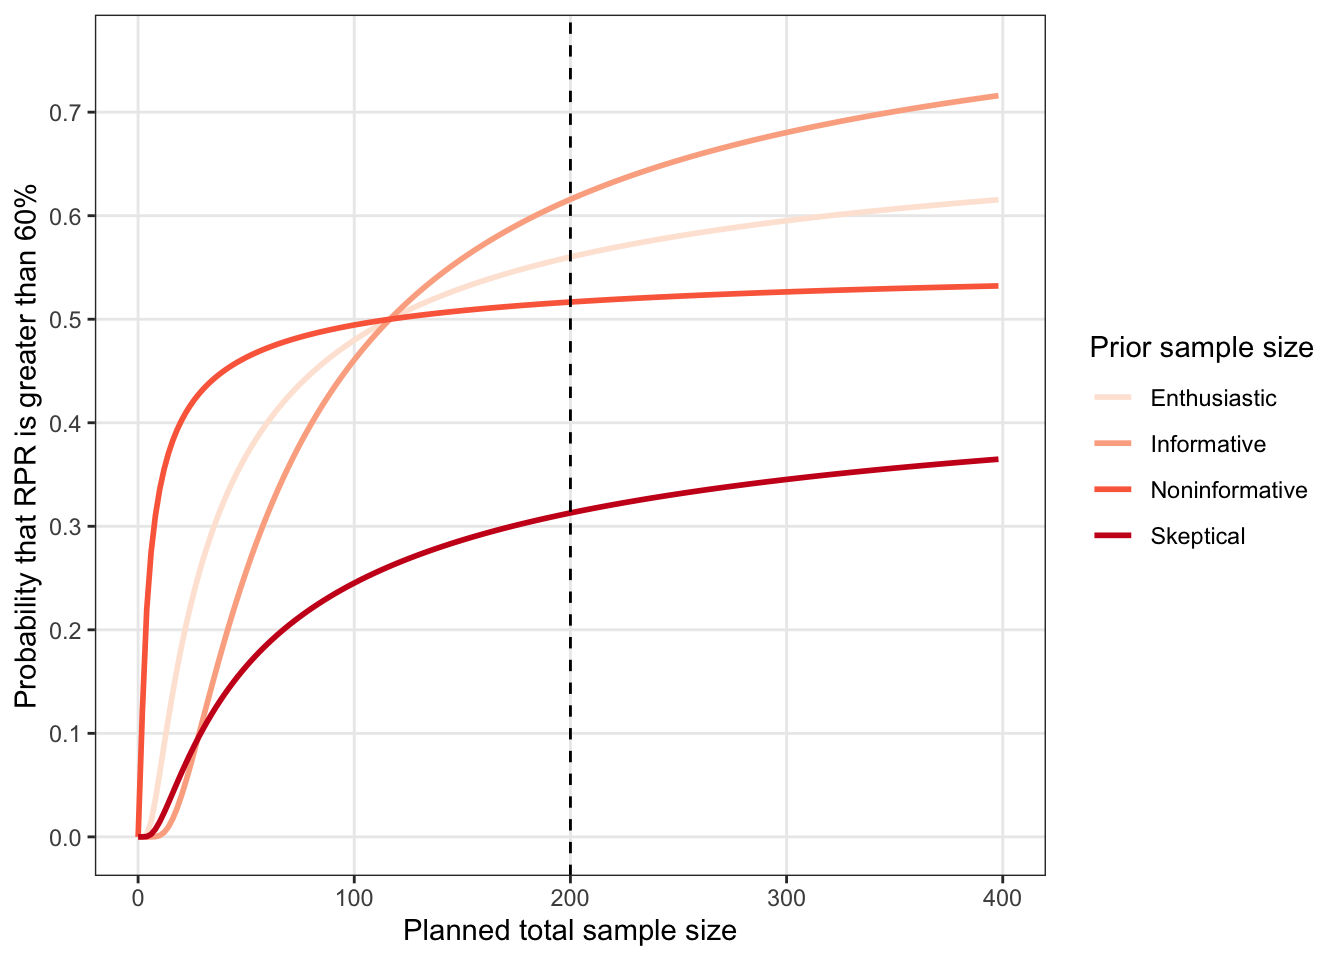
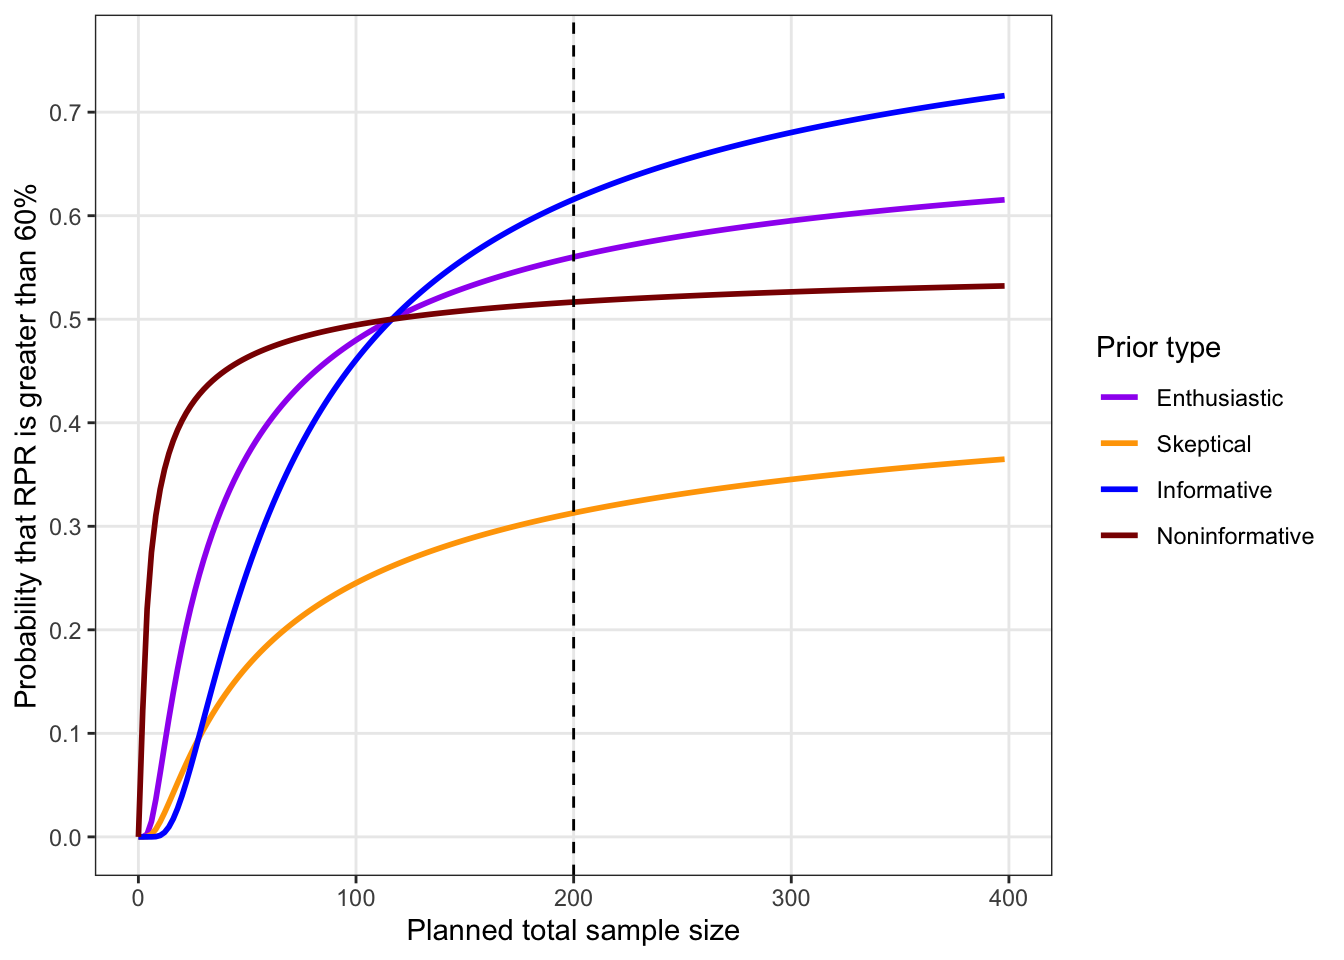
Changes

diff --git a/docs/two-arm-non-inferiority-setting.html b/docs/two-arm-non-inferiority-setting.html
@@ -436,7 +436,9 @@ f(y)&amp;=\sqrt{\frac{m}{n}}\phi\left(\sqrt{\frac{m}{n}}\left[-z_{1-\alpha}-\sqr
 <span id="cb9-43"><a href="two-arm-non-inferiority-setting.html#cb9-43" aria-hidden="true" tabindex="-1"></a></span>
 <span id="cb9-44"><a href="two-arm-non-inferiority-setting.html#cb9-44" aria-hidden="true" tabindex="-1"></a>data_output2 <span class="ot">&lt;-</span> data_output <span class="sc">%&gt;%</span> <span class="fu">select</span>(type, <span class="at">x=</span>AP) <span class="sc">%&gt;%</span> <span class="fu">mutate</span>(<span class="at">y=</span><span class="dv">0</span>)</span>
 <span id="cb9-45"><a href="two-arm-non-inferiority-setting.html#cb9-45" aria-hidden="true" tabindex="-1"></a></span>
-<span id="cb9-46"><a href="two-arm-non-inferiority-setting.html#cb9-46" aria-hidden="true" tabindex="-1"></a><span class="fu">ggplot</span>(data_power, <span class="fu">aes</span>(x, y, <span class="at">colour=</span>type))<span class="sc">+</span><span class="fu">geom_line</span>(<span class="at">linewidth=</span><span class="dv">1</span>)<span class="sc">+</span><span class="fu">geom_point</span>(<span class="at">data=</span>data_output2, <span class="fu">aes</span>(<span class="at">x=</span>x, <span class="at">y=</span>y, <span class="at">colour=</span>type))<span class="sc">+</span><span class="fu">scale_colour_manual</span>(<span class="st">&quot;Prior type&quot;</span>, <span class="at">values=</span><span class="fu">c</span>(<span class="st">&quot;purple&quot;</span>, <span class="st">&quot;orange&quot;</span>, <span class="st">&quot;blue&quot;</span>, <span class="st">&quot;darkred&quot;</span>))<span class="sc">+</span><span class="fu">theme_bw</span>()<span class="sc">+</span><span class="fu">theme</span>(<span class="at">panel.grid =</span> <span class="fu">element_blank</span>())<span class="sc">+</span><span class="fu">ylab</span>(<span class="st">&quot;Density&quot;</span>)<span class="sc">+</span><span class="fu">xlab</span>(<span class="st">&quot;RPR&quot;</span>)<span class="sc">+</span><span class="fu">ylim</span>(<span class="fu">c</span>(<span class="dv">0</span>,<span class="dv">2</span>))<span class="sc">+</span><span class="fu">labs</span>(<span class="at">caption=</span><span class="st">&quot;Dots indicate the AP.&quot;</span>)</span></code></pre></div>
+<span id="cb9-46"><a href="two-arm-non-inferiority-setting.html#cb9-46" aria-hidden="true" tabindex="-1"></a>data_power<span class="sc">$</span>type <span class="ot">&lt;-</span> <span class="fu">factor</span>(data_power<span class="sc">$</span>type, <span class="at">levels=</span><span class="fu">c</span>(<span class="st">&quot;Enthusiastic&quot;</span>, <span class="st">&quot;Skeptical&quot;</span>, <span class="st">&quot;Informative&quot;</span>, <span class="st">&quot;Noninformative&quot;</span>))</span>
+<span id="cb9-47"><a href="two-arm-non-inferiority-setting.html#cb9-47" aria-hidden="true" tabindex="-1"></a></span>
+<span id="cb9-48"><a href="two-arm-non-inferiority-setting.html#cb9-48" aria-hidden="true" tabindex="-1"></a><span class="fu">ggplot</span>(data_power, <span class="fu">aes</span>(x, y, <span class="at">colour=</span>type))<span class="sc">+</span><span class="fu">geom_line</span>(<span class="at">linewidth=</span><span class="dv">1</span>)<span class="sc">+</span><span class="fu">geom_point</span>(<span class="at">data=</span>data_output2, <span class="fu">aes</span>(<span class="at">x=</span>x, <span class="at">y=</span>y, <span class="at">colour=</span>type))<span class="sc">+</span><span class="fu">scale_colour_manual</span>(<span class="st">&quot;Prior type&quot;</span>, <span class="at">values=</span><span class="fu">c</span>(<span class="st">&quot;purple&quot;</span>, <span class="st">&quot;orange&quot;</span>, <span class="st">&quot;blue&quot;</span>, <span class="st">&quot;darkred&quot;</span>))<span class="sc">+</span><span class="fu">theme_bw</span>()<span class="sc">+</span><span class="fu">theme</span>(<span class="at">panel.grid =</span> <span class="fu">element_blank</span>())<span class="sc">+</span><span class="fu">ylab</span>(<span class="st">&quot;Density&quot;</span>)<span class="sc">+</span><span class="fu">xlab</span>(<span class="st">&quot;RPR&quot;</span>)<span class="sc">+</span><span class="fu">ylim</span>(<span class="fu">c</span>(<span class="dv">0</span>,<span class="dv">2</span>))<span class="sc">+</span><span class="fu">labs</span>(<span class="at">caption=</span><span class="st">&quot;Dots indicate the AP.&quot;</span>)</span></code></pre></div>
 </details>
 <p><img src="_main_files/figure-html/unnamed-chunk-6-1.png" width="672" /></p>
 <hr />
@@ -499,7 +501,9 @@ P(RPR\leq y)=1-\Phi&amp;\left(\frac{\sigma_{treat}}{\sigma_{prior}}\left[-z_{1-\
 <span id="cb10-34"><a href="two-arm-non-inferiority-setting.html#cb10-34" aria-hidden="true" tabindex="-1"></a></span>
 <span id="cb10-35"><a href="two-arm-non-inferiority-setting.html#cb10-35" aria-hidden="true" tabindex="-1"></a>data_rpr <span class="ot">&lt;-</span> <span class="fu">rbind</span>(data_rpr, data_rpr_skep)</span>
 <span id="cb10-36"><a href="two-arm-non-inferiority-setting.html#cb10-36" aria-hidden="true" tabindex="-1"></a></span>
-<span id="cb10-37"><a href="two-arm-non-inferiority-setting.html#cb10-37" aria-hidden="true" tabindex="-1"></a><span class="fu">ggplot</span>(data_rpr, <span class="fu">aes</span>(<span class="at">x=</span>gamma, <span class="at">y=</span>p_rpr, <span class="at">colour=</span><span class="fu">factor</span>(type)))<span class="sc">+</span><span class="fu">geom_line</span>(<span class="at">linewidth=</span><span class="dv">1</span>)<span class="sc">+</span><span class="fu">theme_bw</span>()<span class="sc">+</span><span class="fu">theme</span>(<span class="at">panel.grid.minor =</span> <span class="fu">element_blank</span>())<span class="sc">+</span><span class="fu">scale_color_brewer</span>(<span class="st">&quot;&quot;</span>, <span class="at">palette=</span><span class="st">&quot;Reds&quot;</span>)<span class="sc">+</span><span class="fu">xlab</span>(<span class="st">&quot;Threshold gamma&quot;</span>)<span class="sc">+</span><span class="fu">ylab</span>(<span class="st">&quot;Probability that RPR is greater than threshold gamma&quot;</span>)<span class="sc">+</span><span class="fu">scale_y_continuous</span>(<span class="at">breaks=</span><span class="fu">seq</span>(<span class="dv">0</span>,<span class="dv">1</span>,<span class="fl">0.1</span>))<span class="sc">+</span><span class="fu">scale_x_continuous</span>(<span class="at">breaks=</span><span class="fu">seq</span>(<span class="dv">0</span>,<span class="dv">1</span>,<span class="fl">0.2</span>))<span class="sc">+</span><span class="fu">labs</span>(<span class="at">caption=</span><span class="fu">str_glue</span>(<span class="st">&quot;Calculated based on a planned total sample size of &quot;</span>, <span class="fu">round</span>(n_0_range<span class="sc">+</span>a<span class="sc">*</span>n_0_range,<span class="dv">0</span>), <span class="st">&quot;.&quot;</span>))</span></code></pre></div>
+<span id="cb10-37"><a href="two-arm-non-inferiority-setting.html#cb10-37" aria-hidden="true" tabindex="-1"></a>data_rpr<span class="sc">$</span>type <span class="ot">&lt;-</span> <span class="fu">factor</span>(data_rpr<span class="sc">$</span>type, <span class="at">levels=</span><span class="fu">c</span>(<span class="st">&quot;Enthusiastic&quot;</span>, <span class="st">&quot;Skeptical&quot;</span>, <span class="st">&quot;Informative&quot;</span>, <span class="st">&quot;Noninformative&quot;</span>))</span>
+<span id="cb10-38"><a href="two-arm-non-inferiority-setting.html#cb10-38" aria-hidden="true" tabindex="-1"></a></span>
+<span id="cb10-39"><a href="two-arm-non-inferiority-setting.html#cb10-39" aria-hidden="true" tabindex="-1"></a><span class="fu">ggplot</span>(data_rpr, <span class="fu">aes</span>(<span class="at">x=</span>gamma, <span class="at">y=</span>p_rpr, <span class="at">colour=</span>type))<span class="sc">+</span><span class="fu">geom_line</span>(<span class="at">linewidth=</span><span class="dv">1</span>)<span class="sc">+</span><span class="fu">theme_bw</span>()<span class="sc">+</span><span class="fu">theme</span>(<span class="at">panel.grid.minor =</span> <span class="fu">element_blank</span>())<span class="sc">+</span><span class="fu">scale_colour_manual</span>(<span class="st">&quot;Prior type&quot;</span>, <span class="at">values=</span><span class="fu">c</span>(<span class="st">&quot;purple&quot;</span>, <span class="st">&quot;orange&quot;</span>, <span class="st">&quot;blue&quot;</span>, <span class="st">&quot;darkred&quot;</span>))<span class="sc">+</span><span class="fu">xlab</span>(<span class="st">&quot;Threshold gamma&quot;</span>)<span class="sc">+</span><span class="fu">ylab</span>(<span class="st">&quot;Probability that RPR is greater than threshold gamma&quot;</span>)<span class="sc">+</span><span class="fu">scale_y_continuous</span>(<span class="at">breaks=</span><span class="fu">seq</span>(<span class="dv">0</span>,<span class="dv">1</span>,<span class="fl">0.1</span>))<span class="sc">+</span><span class="fu">scale_x_continuous</span>(<span class="at">breaks=</span><span class="fu">seq</span>(<span class="dv">0</span>,<span class="dv">1</span>,<span class="fl">0.2</span>))<span class="sc">+</span><span class="fu">labs</span>(<span class="at">caption=</span><span class="fu">str_glue</span>(<span class="st">&quot;Calculated based on a planned total sample size of &quot;</span>, <span class="fu">round</span>(n_0_range<span class="sc">+</span>a<span class="sc">*</span>n_0_range,<span class="dv">0</span>), <span class="st">&quot;.&quot;</span>))</span></code></pre></div>
 </details>
 <p><img src="_main_files/figure-html/unnamed-chunk-7-1.png" width="672" /></p>
 <p>For a specific threshold, say <span class="math inline">\(\gamma=0.6\)</span>, and varying ‘prior sample sizes’ <span class="math inline">\(m\)</span> we obtain</p>
@@ -543,7 +547,9 @@ P(RPR\leq y)=1-\Phi&amp;\left(\frac{\sigma_{treat}}{\sigma_{prior}}\left[-z_{1-\
 <span id="cb11-37"><a href="two-arm-non-inferiority-setting.html#cb11-37" aria-hidden="true" tabindex="-1"></a></span>
 <span id="cb11-38"><a href="two-arm-non-inferiority-setting.html#cb11-38" aria-hidden="true" tabindex="-1"></a>data_rpr <span class="ot">&lt;-</span> <span class="fu">rbind</span>(data_rpr, data_rpr_skep)</span>
 <span id="cb11-39"><a href="two-arm-non-inferiority-setting.html#cb11-39" aria-hidden="true" tabindex="-1"></a></span>
-<span id="cb11-40"><a href="two-arm-non-inferiority-setting.html#cb11-40" aria-hidden="true" tabindex="-1"></a><span class="fu">ggplot</span>(data_rpr, <span class="fu">aes</span>(<span class="at">x=</span>n_1_range<span class="sc">+</span>n_0_range, <span class="at">y=</span>p_rpr, <span class="at">colour=</span><span class="fu">factor</span>(type)))<span class="sc">+</span><span class="fu">geom_line</span>(<span class="at">linewidth=</span><span class="dv">1</span>)<span class="sc">+</span><span class="fu">theme_bw</span>()<span class="sc">+</span><span class="fu">theme</span>(<span class="at">panel.grid.minor =</span> <span class="fu">element_blank</span>())<span class="sc">+</span><span class="fu">scale_color_brewer</span>(<span class="st">&quot;Prior sample size&quot;</span>, <span class="at">palette=</span><span class="st">&quot;Reds&quot;</span>)<span class="sc">+</span><span class="fu">xlab</span>(<span class="st">&quot;Planned total sample size&quot;</span>)<span class="sc">+</span><span class="fu">ylab</span>(<span class="fu">str_glue</span>(<span class="st">&quot;Probability that RPR is greater than &quot;</span>, gamma<span class="sc">*</span><span class="dv">100</span>, <span class="st">&quot;%&quot;</span>))<span class="sc">+</span><span class="fu">scale_x_continuous</span>(<span class="at">breaks=</span><span class="fu">c</span>(<span class="dv">0</span>, <span class="dv">100</span>, <span class="dv">200</span>, <span class="dv">300</span>, <span class="dv">400</span>), <span class="at">limits=</span><span class="fu">c</span>(<span class="dv">0</span>,<span class="dv">400</span>))<span class="sc">+</span><span class="fu">geom_vline</span>(<span class="at">xintercept=</span><span class="dv">200</span>, <span class="at">linetype=</span><span class="st">&quot;dashed&quot;</span>)<span class="sc">+</span><span class="fu">scale_y_continuous</span>(<span class="at">breaks=</span><span class="fu">seq</span>(<span class="dv">0</span>,<span class="dv">1</span>,<span class="fl">0.1</span>))<span class="sc">+</span><span class="fu">scale_linetype</span>(<span class="st">&quot;Prior type&quot;</span>)</span></code></pre></div>
+<span id="cb11-40"><a href="two-arm-non-inferiority-setting.html#cb11-40" aria-hidden="true" tabindex="-1"></a>data_rpr<span class="sc">$</span>type <span class="ot">&lt;-</span> <span class="fu">factor</span>(data_rpr<span class="sc">$</span>type, <span class="at">levels=</span><span class="fu">c</span>(<span class="st">&quot;Enthusiastic&quot;</span>, <span class="st">&quot;Skeptical&quot;</span>, <span class="st">&quot;Informative&quot;</span>, <span class="st">&quot;Noninformative&quot;</span>))</span>
+<span id="cb11-41"><a href="two-arm-non-inferiority-setting.html#cb11-41" aria-hidden="true" tabindex="-1"></a></span>
+<span id="cb11-42"><a href="two-arm-non-inferiority-setting.html#cb11-42" aria-hidden="true" tabindex="-1"></a><span class="fu">ggplot</span>(data_rpr, <span class="fu">aes</span>(<span class="at">x=</span>n_1_range<span class="sc">+</span>n_0_range, <span class="at">y=</span>p_rpr, <span class="at">colour=</span>type))<span class="sc">+</span><span class="fu">geom_line</span>(<span class="at">linewidth=</span><span class="dv">1</span>)<span class="sc">+</span><span class="fu">theme_bw</span>()<span class="sc">+</span><span class="fu">theme</span>(<span class="at">panel.grid.minor =</span> <span class="fu">element_blank</span>())<span class="sc">+</span><span class="fu">scale_colour_manual</span>(<span class="st">&quot;Prior type&quot;</span>, <span class="at">values=</span><span class="fu">c</span>(<span class="st">&quot;purple&quot;</span>, <span class="st">&quot;orange&quot;</span>, <span class="st">&quot;blue&quot;</span>, <span class="st">&quot;darkred&quot;</span>))<span class="sc">+</span><span class="fu">xlab</span>(<span class="st">&quot;Planned total sample size&quot;</span>)<span class="sc">+</span><span class="fu">ylab</span>(<span class="fu">str_glue</span>(<span class="st">&quot;Probability that RPR is greater than &quot;</span>, gamma<span class="sc">*</span><span class="dv">100</span>, <span class="st">&quot;%&quot;</span>))<span class="sc">+</span><span class="fu">scale_x_continuous</span>(<span class="at">breaks=</span><span class="fu">c</span>(<span class="dv">0</span>, <span class="dv">100</span>, <span class="dv">200</span>, <span class="dv">300</span>, <span class="dv">400</span>), <span class="at">limits=</span><span class="fu">c</span>(<span class="dv">0</span>,<span class="dv">400</span>))<span class="sc">+</span><span class="fu">geom_vline</span>(<span class="at">xintercept=</span><span class="dv">200</span>, <span class="at">linetype=</span><span class="st">&quot;dashed&quot;</span>)<span class="sc">+</span><span class="fu">scale_y_continuous</span>(<span class="at">breaks=</span><span class="fu">seq</span>(<span class="dv">0</span>,<span class="dv">1</span>,<span class="fl">0.1</span>))</span></code></pre></div>
 </details>
 <p><img src="_main_files/figure-html/unnamed-chunk-8-1.png" width="672" /></p>
 <hr />
@@ -752,7 +758,10 @@ P(S^B|\delta)&amp;=\Phi\left(-z_{1-\epsilon}\sqrt{\frac{n+m}{n}}- \frac{m}{\sqrt
 <span id="cb17-40"><a href="two-arm-non-inferiority-setting.html#cb17-40" aria-hidden="true" tabindex="-1"></a>y_freq <span class="ot">&lt;-</span> <span class="fu">pnorm</span>(<span class="sc">-</span>(delta<span class="sc">-</span>delta_star)<span class="sc">*</span><span class="fu">sqrt</span>(n_1<span class="sc">*</span>n_0)<span class="sc">/</span><span class="fu">sqrt</span>(n_0<span class="sc">*</span>sd_1<span class="sc">^</span><span class="dv">2</span><span class="sc">+</span>n_1<span class="sc">*</span>sd_0<span class="sc">^</span><span class="dv">2</span>)<span class="sc">-</span><span class="fu">qnorm</span>(<span class="dv">1</span><span class="sc">-</span>alpha))</span>
 <span id="cb17-41"><a href="two-arm-non-inferiority-setting.html#cb17-41" aria-hidden="true" tabindex="-1"></a>data_power <span class="ot">&lt;-</span> <span class="fu">rbind</span>(data_power, <span class="fu">data.frame</span>(delta, <span class="at">y=</span>y_freq, <span class="at">type=</span><span class="st">&quot;Frequentist&quot;</span>))</span>
 <span id="cb17-42"><a href="two-arm-non-inferiority-setting.html#cb17-42" aria-hidden="true" tabindex="-1"></a></span>
-<span id="cb17-43"><a href="two-arm-non-inferiority-setting.html#cb17-43" aria-hidden="true" tabindex="-1"></a><span class="fu">ggplot</span>(data_power, <span class="fu">aes</span>(<span class="at">x=</span>delta, <span class="at">y=</span>y, <span class="at">colour=</span>type))<span class="sc">+</span><span class="fu">geom_line</span>()<span class="sc">+</span><span class="fu">theme_bw</span>()<span class="sc">+</span><span class="fu">theme</span>(<span class="at">panel.grid.minor =</span> <span class="fu">element_blank</span>())<span class="sc">+</span><span class="fu">scale_colour_brewer</span>(<span class="st">&quot;&quot;</span>, <span class="at">palette=</span><span class="st">&quot;Dark2&quot;</span>)<span class="sc">+</span><span class="fu">ylab</span>(<span class="st">&quot;Probability of rejection&quot;</span>)<span class="sc">+</span><span class="fu">ylab</span>(<span class="st">&quot;Probability to reject&quot;</span>)<span class="sc">+</span><span class="fu">scale_x_continuous</span>(<span class="at">breaks=</span><span class="fu">c</span>(<span class="sc">-</span><span class="fl">0.025</span>,<span class="dv">0</span>,<span class="fl">0.035</span>,<span class="fl">0.050</span>))<span class="sc">+</span><span class="fu">scale_y_continuous</span>(<span class="at">breaks=</span><span class="fu">c</span>(<span class="dv">0</span>,<span class="fl">0.5</span>,<span class="fl">0.8</span>,<span class="dv">1</span>))<span class="sc">+</span><span class="fu">ggtitle</span>(<span class="fu">str_glue</span>(<span class="st">&quot;For treatment arm sample sizes: n0=&quot;</span>, <span class="fu">round</span>(n_0,<span class="dv">0</span>), <span class="st">&quot;, n1=&quot;</span>, <span class="fu">round</span>(n_1,<span class="dv">0</span>)))<span class="sc">+</span><span class="fu">geom_vline</span>(<span class="at">xintercept=</span><span class="dv">0</span>, <span class="at">linetype=</span><span class="st">&quot;dashed&quot;</span>)<span class="sc">+</span><span class="fu">geom_vline</span>(<span class="at">xintercept=</span><span class="fl">0.035</span>, <span class="at">linetype=</span><span class="st">&quot;dashed&quot;</span>)</span></code></pre></div>
+<span id="cb17-43"><a href="two-arm-non-inferiority-setting.html#cb17-43" aria-hidden="true" tabindex="-1"></a>data_power<span class="sc">$</span>type <span class="ot">&lt;-</span> <span class="fu">factor</span>(data_power<span class="sc">$</span>type, <span class="at">levels=</span><span class="fu">c</span>(<span class="st">&quot;Bayes: Enthusiastic&quot;</span>, <span class="st">&quot;Bayes: Skeptical&quot;</span>, <span class="st">&quot;Bayes: Informative&quot;</span>, <span class="st">&quot;Bayes: Noninformative&quot;</span>, <span class="st">&quot;Frequentist&quot;</span>))</span>
+<span id="cb17-44"><a href="two-arm-non-inferiority-setting.html#cb17-44" aria-hidden="true" tabindex="-1"></a></span>
+<span id="cb17-45"><a href="two-arm-non-inferiority-setting.html#cb17-45" aria-hidden="true" tabindex="-1"></a></span>
+<span id="cb17-46"><a href="two-arm-non-inferiority-setting.html#cb17-46" aria-hidden="true" tabindex="-1"></a><span class="fu">ggplot</span>(data_power, <span class="fu">aes</span>(<span class="at">x=</span>delta, <span class="at">y=</span>y, <span class="at">colour=</span>type))<span class="sc">+</span><span class="fu">geom_line</span>()<span class="sc">+</span><span class="fu">theme_bw</span>()<span class="sc">+</span><span class="fu">theme</span>(<span class="at">panel.grid.minor =</span> <span class="fu">element_blank</span>())<span class="sc">+</span><span class="fu">scale_colour_manual</span>(<span class="st">&quot;Type&quot;</span>, <span class="at">values=</span><span class="fu">c</span>(<span class="st">&quot;purple&quot;</span>, <span class="st">&quot;orange&quot;</span>, <span class="st">&quot;blue&quot;</span>, <span class="st">&quot;darkred&quot;</span>, <span class="st">&quot;green&quot;</span>))<span class="sc">+</span><span class="fu">ylab</span>(<span class="st">&quot;Probability of rejection&quot;</span>)<span class="sc">+</span><span class="fu">ylab</span>(<span class="st">&quot;Probability to reject&quot;</span>)<span class="sc">+</span><span class="fu">scale_x_continuous</span>(<span class="at">breaks=</span><span class="fu">c</span>(<span class="sc">-</span><span class="fl">0.025</span>,<span class="dv">0</span>,<span class="fl">0.035</span>,<span class="fl">0.050</span>))<span class="sc">+</span><span class="fu">scale_y_continuous</span>(<span class="at">breaks=</span><span class="fu">c</span>(<span class="dv">0</span>,<span class="fl">0.5</span>,<span class="fl">0.8</span>,<span class="dv">1</span>))<span class="sc">+</span><span class="fu">ggtitle</span>(<span class="fu">str_glue</span>(<span class="st">&quot;For treatment arm sample sizes: n0=&quot;</span>, <span class="fu">round</span>(n_0,<span class="dv">0</span>), <span class="st">&quot;, n1=&quot;</span>, <span class="fu">round</span>(n_1,<span class="dv">0</span>)))<span class="sc">+</span><span class="fu">geom_vline</span>(<span class="at">xintercept=</span><span class="dv">0</span>, <span class="at">linetype=</span><span class="st">&quot;dashed&quot;</span>)<span class="sc">+</span><span class="fu">geom_vline</span>(<span class="at">xintercept=</span><span class="fl">0.035</span>, <span class="at">linetype=</span><span class="st">&quot;dashed&quot;</span>)</span></code></pre></div>
 </details>
 <p><img src="_main_files/figure-html/unnamed-chunk-11-1.png" width="672" /></p>
 <details class=chunk-details><summary class=chunk-summary><span class=chunk-summary-text>Code</span></summary>
@@ -776,7 +785,7 @@ P(S^B|\delta)&amp;=\Phi\left(-z_{1-\epsilon}\sqrt{\frac{n+m}{n}}- \frac{m}{\sqrt
 \begin{aligned}
 BAP&amp;=\int_{-\infty}^{-z_{1-\epsilon}\frac{\sigma_{treat}}{\sigma_{prior}}\sqrt{\sigma^2_{treat}+\sigma^2_{prior}}+\delta^*\left(1+\frac{\sigma_{treat}^2}{\sigma_{prior}^2}\right)-\frac{\sigma^2_{treat}}{\sigma^2_{prior}}d} f(\tilde \delta)d\tilde \delta
 \\&amp;=\Phi\left( -z_{1-\epsilon}\frac{\sigma_{treat}}{\sigma_{prior}}\frac{\sqrt{\sigma^2_{treat}+\sigma^2_{prior}}}{\sqrt{\sigma^2_{treat}+\sigma^2_{prior}}}+\frac{\delta^*}{\sqrt{\sigma^2_{treat}+\sigma^2_{prior}}}\left\{1+\frac{\sigma_{treat}^2}{\sigma_{prior}^2}\right\} \right. \\
-  &amp; \left. \quad \quad \quad-d\left[\frac{\sigma^2_{treat}}{\sigma^2_{prior}\sqrt{\sigma^2_{treat}+\sigma^2_{prior}}}+\frac{1}{\sqrt{\sigma^2_{treat}+\sigma^2_{prior}}}\right]\right) \\
+  &amp; \left. \quad \quad \quad-\frac{d}{\sqrt{\sigma^2_{treat}+\sigma^2_{prior}}}\left\{1+\frac{\sigma_{treat}^2}{\sigma_{prior}^2}\right\}\right) \\
 &amp;=\Phi\left(-z_{1-\epsilon}\frac{\sigma_{treat}}{\sigma_{prior}}-\frac{\sqrt{\sigma^2_{treat}+\sigma^2_{prior}}}{\sigma^2_{prior}}(d-\delta^*)\right),
 \end{aligned}
 \]</span>
@@ -786,7 +795,7 @@ since for the posterior predictive distribution <span class="math inline">\(\til
 <p>If <span class="math inline">\(n_0=n_1=n\)</span> and <span class="math inline">\(\sigma_1^2=\sigma_0^2=\sigma^2\)</span>, then <span class="math inline">\(\sigma_{treat}^2=\frac{2\sigma^2}{n}\)</span> and <span class="math inline">\(\sigma_{prior}^2=\frac{2\sigma^2}{m}\)</span>, and the formula above reduces to
 <span class="math display">\[
 \begin{aligned}
-P(D\leq D_{suc}^{d,\delta^*})&amp;=-z_{1-\epsilon}\sqrt{\frac{m}{n}}+\sqrt{\frac{(m+n)m}{2n\sigma^2}}(\delta^*-d)
+BAP&amp;=-z_{1-\epsilon}\sqrt{\frac{m}{n}}-\sqrt{\frac{(m+n)m}{2n\sigma^2}}(d-\delta^*)
 \end{aligned}
 \]</span></p>
 <hr />
